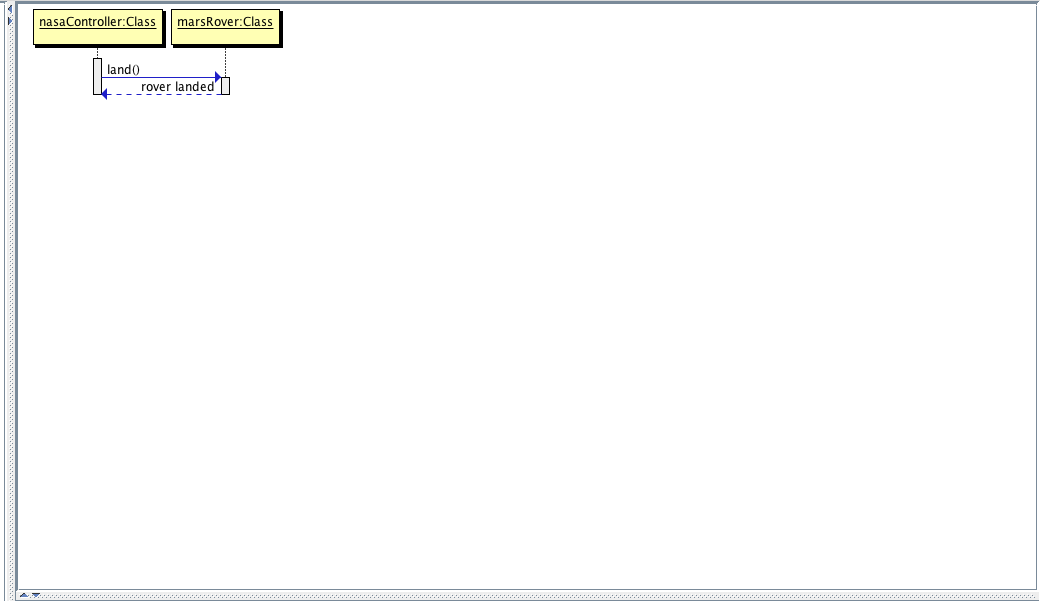
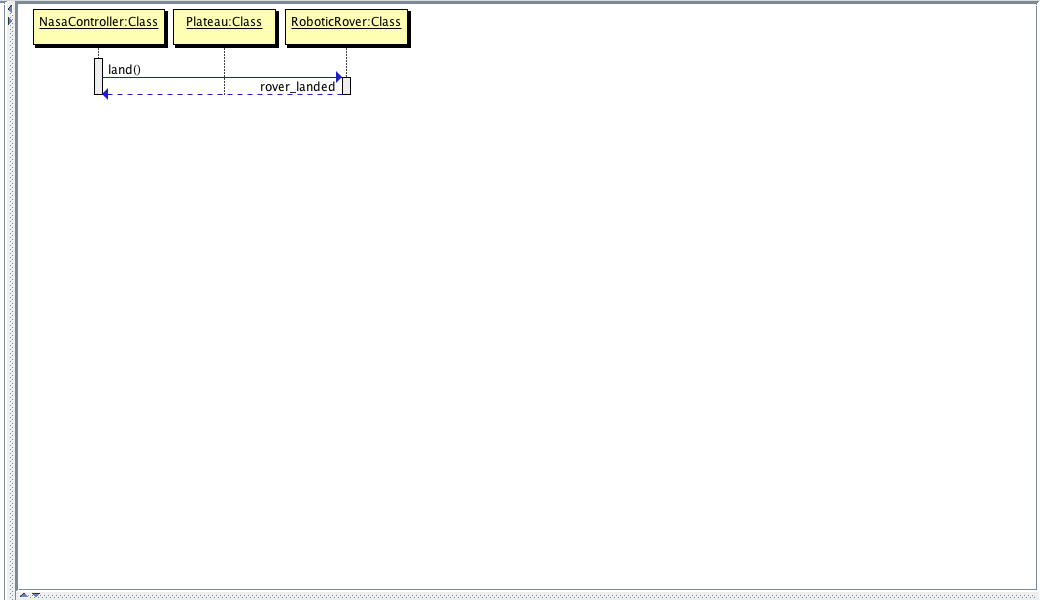
Refactor Sequence Diagram
∆ Sequence diagram now better represents the injection of dependencies.

Changed region(s): [[0.0, 0.96, 1.0, 1.0], [0.0308, 0.0, 0.4, 0.09], [0.0923, 0.09, 0.3385, 0.18]]

diff --git a/coverage/index.html b/coverage/index.html
@@ -14,7 +14,7 @@
       <img src="./assets/0.10.0/loading.gif" alt="loading"/>
     </div>
     <div id="wrapper" style="display:none;">
-      <div class="timestamp">Generated <abbr class="timeago" title="2016-08-10T12:07:45+09:00">2016-08-10T12:07:45+09:00</abbr></div>
+      <div class="timestamp">Generated <abbr class="timeago" title="2016-08-10T12:12:14+09:00">2016-08-10T12:12:14+09:00</abbr></div>
       <ul class="group_tabs"></ul>
 
       <div id="content">
@@ -25,7 +25,7 @@
      covered at
      <span class="covered_strength">
        <span class="green">
-         1.62
+         1.6
        </span>
     </span> hits/line)
   </h2>
@@ -83,11 +83,11 @@
       <tr>
         <td class="strong"><a href="#4b62f72c8c08ef2bedae04fb8e98046745f97968" class="src_link" title="spec/features/user_story_spec.rb">spec/features/user_story_spec.rb</a></td>
         <td class="green strong">100.0 %</td>
-        <td>20</td>
+        <td>19</td>
         <td>12</td>
         <td>12</td>
         <td>0</td>
-        <td>1.4</td>
+        <td>1.3</td>
       </tr>
       
       <tr>
@@ -231,7 +231,7 @@
         <li class="covered" data-hits="1" data-linenumber="14">
           <span class="hits">1</span>
           
-          <code class="ruby">  def land_rover(start_position)</code>
+          <code class="ruby">  def land_rover</code>
         </li>
       
         <li class="covered" data-hits="2" data-linenumber="15">
@@ -402,8 +402,8 @@
           <code class="ruby"></code>
         </li>
       
-        <li class="covered" data-hits="2" data-linenumber="6">
-          <span class="hits">2</span>
+        <li class="covered" data-hits="1" data-linenumber="6">
+          <span class="hits">1</span>
           
           <code class="ruby">  let(:start_position) { &#39;0 0 N&#39; }</code>
         </li>
@@ -459,7 +459,7 @@
         <li class="covered" data-hits="1" data-linenumber="15">
           <span class="hits">1</span>
           
-          <code class="ruby">      nasa_controller.land_rover(start_position)</code>
+          <code class="ruby">      nasa_controller.land_rover</code>
         </li>
       
         <li class="covered" data-hits="1" data-linenumber="16">
@@ -471,22 +471,16 @@
         <li class="never" data-hits="" data-linenumber="17">
           
           
-          <code class="ruby">      # expect(robotic_rover.position).to eq(start_position)</code>
+          <code class="ruby">    end</code>
         </li>
       
         <li class="never" data-hits="" data-linenumber="18">
           
           
-          <code class="ruby">    end</code>
-        </li>
-      
-        <li class="never" data-hits="" data-linenumber="19">
-          
-          
           <code class="ruby">  end</code>
         </li>
       
-        <li class="never" data-hits="" data-linenumber="20">
+        <li class="never" data-hits="" data-linenumber="19">
           
           
           <code class="ruby">end</code>
@@ -558,8 +552,8 @@
           <code class="ruby"></code>
         </li>
       
-        <li class="covered" data-hits="2" data-linenumber="9">
-          <span class="hits">2</span>
+        <li class="covered" data-hits="1" data-linenumber="9">
+          <span class="hits">1</span>
           
           <code class="ruby">  let(:start_position) { &#39;0 0 N&#39; }</code>
         </li>
@@ -621,7 +615,7 @@
         <li class="covered" data-hits="1" data-linenumber="19">
           <span class="hits">1</span>
           
-          <code class="ruby">      nasa_controller.link_to_rover robotic_rover</code>
+          <code class="ruby">      nasa_controller.link_to_rover(robotic_rover)</code>
         </li>
       
         <li class="covered" data-hits="1" data-linenumber="20">
@@ -651,13 +645,13 @@
         <li class="covered" data-hits="1" data-linenumber="24">
           <span class="hits">1</span>
           
-          <code class="ruby">      nasa_controller.link_to_rover robotic_rover</code>
+          <code class="ruby">      nasa_controller.link_to_rover(robotic_rover)</code>
         </li>
       
         <li class="covered" data-hits="1" data-linenumber="25">
           <span class="hits">1</span>
           
-          <code class="ruby">      nasa_controller.land_rover start_position</code>
+          <code class="ruby">      nasa_controller.land_rover</code>
         </li>
       
         <li class="covered" data-hits="1" data-linenumber="26">

diff --git a/spec/nasa_controller_spec.rb b/spec/nasa_controller_spec.rb
@@ -16,13 +16,13 @@ describe NasaController do
 
   context 'interacting with a rover' do
     it 'can create a link' do
-      nasa_controller.link_to_rover robotic_rover
+      nasa_controller.link_to_rover(robotic_rover)
       expect(nasa_controller.current_rover).to eq robotic_rover
     end
 
     it 'can land a rover' do
-      nasa_controller.link_to_rover robotic_rover
-      nasa_controller.land_rover start_position
+      nasa_controller.link_to_rover(robotic_rover)
+      nasa_controller.land_rover
       expect(plateau.current_rovers).to eq [robotic_rover]
     end
   end

diff --git a/spec/features/user_story_spec.rb b/spec/features/user_story_spec.rb
@@ -12,7 +12,7 @@ describe 'User Stories' do
     I'd like to be able to land a Mars Rover on the plateau." do
       nasa_controller.link_to_rover(robotic_rover)
       expect(nasa_controller.current_rover).to eq(robotic_rover)
-      nasa_controller.land_rover(start_position)
+      nasa_controller.land_rover
       expect(plateau.current_rovers).to eq([robotic_rover])
     end
   end

diff --git a/lib/nasa_controller.rb b/lib/nasa_controller.rb
@@ -1,7 +1,7 @@
 class NasaController
   attr_reader :plateau, :current_rover
 
-  def initialize(plateau:)
+  def initialize(plateau: )
     @plateau = plateau
     @current_rover = []
   end
@@ -11,7 +11,7 @@ class NasaController
     @current_rover = robotic_rover
   end
 
-  def land_rover(start_position)
+  def land_rover
     plateau.current_rovers << current_rover
   end
 end

diff --git a/README.md b/README.md
@@ -142,15 +142,9 @@ Consider the domain objects and their creation.
 
 **Step Three**
 
-Refactor to consider how the Messages can form the basis of the application as opposed to the Domain Objects. Notice how the #land method is now the trigger for the creation of the plateau object.
+Refactor to consider how the Messages can form the basis of the application as opposed to the Domain Objects.
 
-![alt text](./images/readme/fig_1.3.png "Refactor so plateau is now created when the mars rover asks where it should land.")
-
-**Step Four (Refactor during implementation)**
-
-To demonstrate the flexibility of design done in this way, once implementation has begun, it becomes clear that the creation of a plateau is not the responsibility of #land. This has come about during the creation of #land which would now require an argument containing the size of the plateau, not something it should know anything about. For this reason, the design has been changed.
-
-![alt text](./images/readme/fig_1.4.png "Flexible design allows for refactors once implementation has begun.")
+![alt text](./images/readme/fig_1.3.png "Refactor with the focus on the messages and how they get objects to interact.")
 
 ####Test Driven Development
 Test Driven Development (TDD) starts with a test. The first test is an automation test, which to begin with fails. The next step is to write a failing unit test followed by the simplest code required to pass that unit test. Continuing down this path leads to writing more failing unit tests and passing them with the simplest code possible until the original automation test passes. This was the path followed when developing the Mars Rover application.
